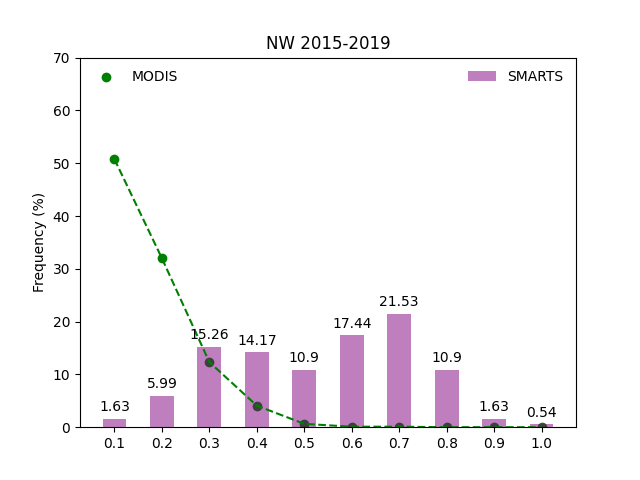
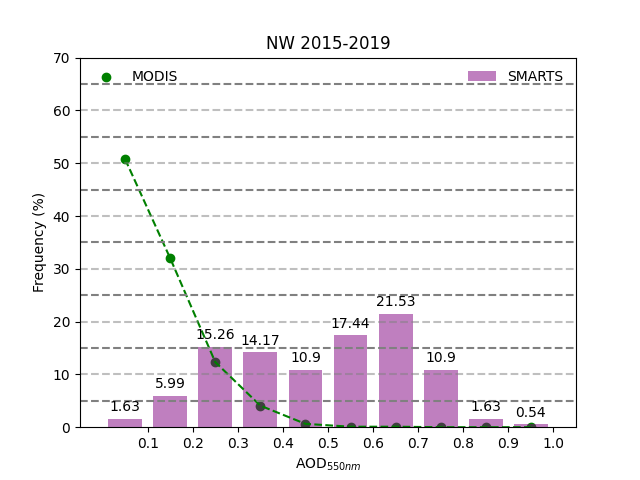
[CHANGE] Graphics

diff --git a/Scripts/CompareAODGraphics.py b/Scripts/CompareAODGraphics.py
@@ -13,10 +13,10 @@ def AODGraphics(file_data,folder,label):
 def plot_data(x,y,label):
     plt.xlim(0,365*5)
     plt.xticks(np.arange(0,365*6,365),np.arange(2015,2021,1))
-    plt.scatter(x,y,marker=".",label=label)
+    plt.scatter(x,y,marker=".",label=label,alpha=0.7)
     plt.plot([0,365*5],[1,1],color="red",ls="--")
     plt.ylim(0,1.2)
-    plt.ylabel("AOD$_{550nm}$")
+    plt.ylabel("SMARTS AOD$_{550nm}$")
     plt.xlabel("Year")
     plt.yticks(np.arange(0,1.4,0.2))
 #<-----------------------------Funcion para obtener el dia consecutivo------------------------------>
@@ -26,12 +26,13 @@ def yymmdd(date_sima,i,yy,mm,dd):
     day=int(date_sima[i][dd[0]:dd[1]])
     conse_day=(datetime.date(year,month,day)-datetime.date(2015,1,1)).days
     return conse_day
-stations=["noreste"]
+stations=["noreste","noroeste"];stations_name=["Northeast","Northwest"]
 files=["DataAOD_clear.txt","DataAOD_moderate.txt"]
 labels=["Pristine","Moderate"]
-for station in stations:
+for station,station_name in zip(stations,stations_name):
     dir="../Stations/"+station+"/"
     for file,label in zip(files,labels):
         AODGraphics(file_data=file,folder=dir,label=label)
-    plt.legend(frameon=False,mode="expand",ncol=2)
+    plt.title(station_name+" station")
     plt.savefig(dir+"Graphics/Compare_AOD.png")
+    plt.clf()

diff --git a/Scripts/MODIS_Histogram.py b/Scripts/MODIS_Histogram.py
@@ -17,16 +17,27 @@ def hist_plot(data1,data2,path,title):
     fig, ax = plt.subplots()
     ax.set_ylabel("Frequency (%)")
     x=np.arange(np.size(data1))
-    width =0.5 
+    width =0.75 
     ax.plot(x,data2,width,c="green",ls="--")
     ax.set_ylim(0,70)
+    ax.set_xlim(-1,10)
+    plot_grid(ax)
+    ax.set_xlabel("AOD$_{550nm}$")
     rects1=ax.bar(x,data1,width,label='SMARTS',facecolor="purple",alpha=0.5)
     autolabel(ax,rects1)    
-    plt.xticks(x,div)
+    plt.xticks(x+0.5,div)
     plt.title(title+" 2015-2019")
     ax.scatter(x,data2,c="green",label="MODIS")
     plt.legend(frameon=False,ncol=2,mode='expand')
     plt.savefig(path+'Graphics/AOD_hist.png')
+def plot_grid(ax):
+    y_levels=np.arange(5,75,5)
+    for y_level in y_levels:
+        if y_level%10==0:
+            alpha=0.5
+        else:
+            alpha=1
+        ax.plot([-1,10],[y_level,y_level],ls="--",c="grey",alpha=alpha)
 #<------------------------Funcion que grafica los valores de cada barra------------->
 def autolabel(ax,rects):
     for rect in rects:

diff --git a/Scripts/DaysGraphics.py b/Scripts/DaysGraphics.py
@@ -28,5 +28,4 @@ for station in stations:
         plt.title("Day "+date+"\n AOD$_{550nm}$: "+aod)
         plt.legend(ncol=2,frameon=False,mode="expand")
         plt.savefig(carp+"/Graphics/"+date+".png")
-        plt.show()
         plt.clf()
